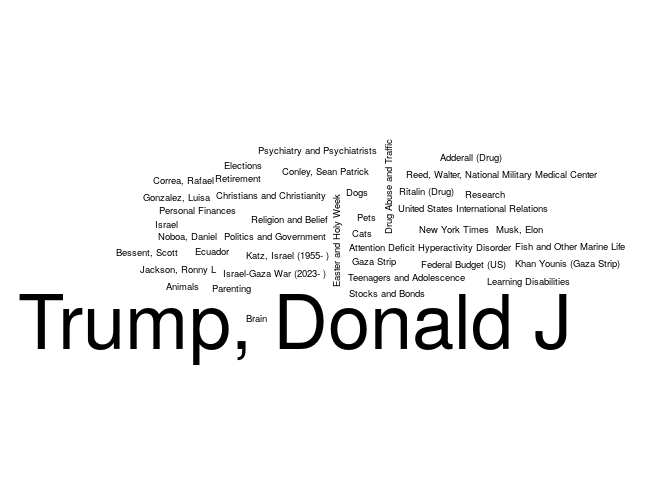
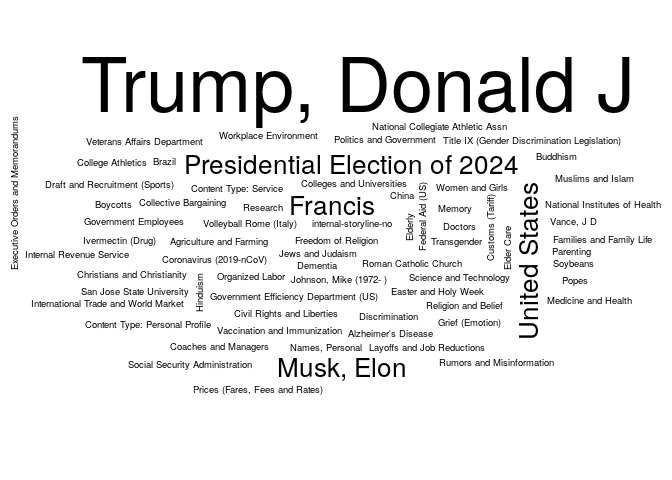
Updating the NYT report

Changed region(s): [[0.0, 0.0938, 1.0, 0.8438]]

diff --git a/03-nytimes/README.md b/03-nytimes/README.md
@@ -5,7 +5,7 @@ The following is an example of how to use the [NYTimes
 API](https://developer.nytimes.com/) to get a list of articles related
 to a particular term. Here we are searching articles that include the
 term `"health"`, and that were published up to seven days ago since
-2025-04-14.
+2025-04-21.
 
 ``` r
 # Preparing a function to use the GET method with the NYTimes API
@@ -83,25 +83,25 @@ colnames(tab) <- c("Keyword", "# Articles")
 knitr::kable(tab, row.names = FALSE)
 ```
 
-| Keyword                                  | \# Articles |
-|:-----------------------------------------|------------:|
-| Trump, Donald J                          |          10 |
-| United States Politics and Government    |          10 |
-| Adderall (Drug)                          |           5 |
-| Animals                                  |           5 |
-| Attention Deficit Hyperactivity Disorder |           5 |
-| Bessent, Scott                           |           5 |
-| Brain                                    |           5 |
-| Cats                                     |           5 |
-| Christians and Christianity              |           5 |
-| Conley, Sean Patrick                     |           5 |
-| Correa, Rafael                           |           5 |
-| Dogs                                     |           5 |
-| Drug Abuse and Traffic                   |           5 |
-| Easter and Holy Week                     |           5 |
-| Ecuador                                  |           5 |
-| Elections                                |           5 |
-| Federal Budget (US)                      |           5 |
-| Fish and Other Marine Life               |           5 |
-| Gaza Strip                               |           5 |
-| Gonzalez, Luisa                          |           5 |
+| Keyword                               | \# Articles |
+|:--------------------------------------|------------:|
+| Trump, Donald J                       |          25 |
+| United States Politics and Government |          15 |
+| Francis                               |          10 |
+| Musk, Elon                            |          10 |
+| Presidential Election of 2024         |          10 |
+| United States                         |          10 |
+| Agriculture and Farming               |           5 |
+| Alzheimer’s Disease                   |           5 |
+| Boycotts                              |           5 |
+| Brazil                                |           5 |
+| Buddhism                              |           5 |
+| China                                 |           5 |
+| Christians and Christianity           |           5 |
+| Civil Rights and Liberties            |           5 |
+| Coaches and Managers                  |           5 |
+| Collective Bargaining                 |           5 |
+| College Athletics                     |           5 |
+| Colleges and Universities             |           5 |
+| Content Type: Personal Profile        |           5 |
+| Content Type: Service                 |           5 |
